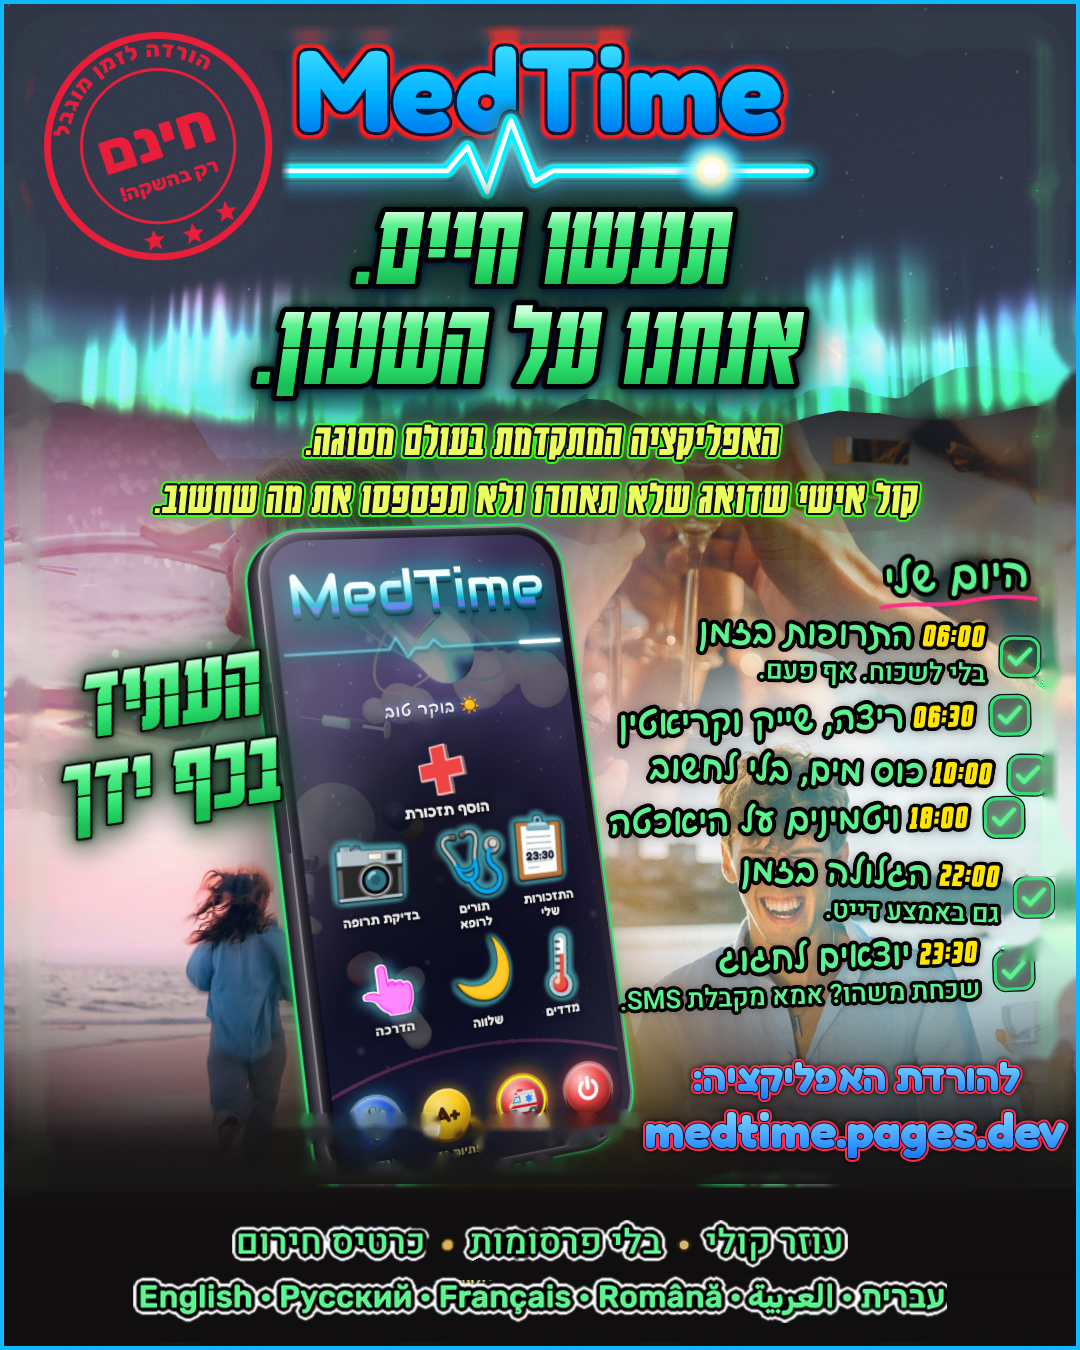
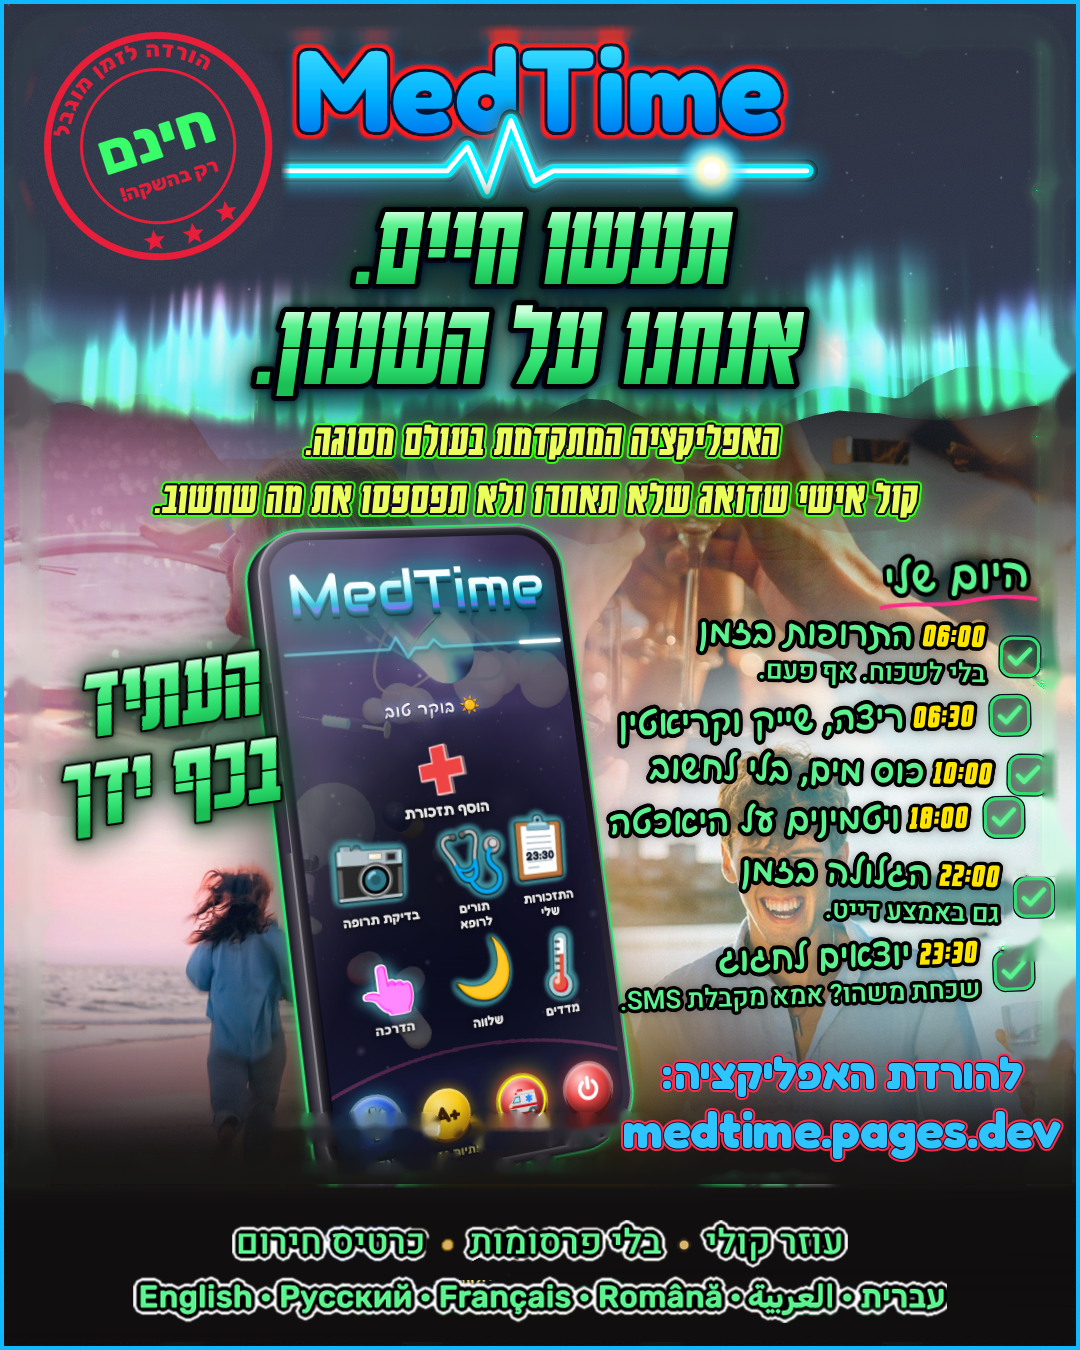
Ad round 10: green 'חינם', bigger glowing-blue address without halo [skip ci]
Claude-Session: https://claude.ai/code/session_01VsxPbo6X9KYMbXyBhgnXSS

Changed region(s): [[0.5806, 0.7778, 1.0, 0.8711], [0.0917, 0.0622, 0.2139, 0.1244]]

diff --git a/media/ads/src/premium_fix8.py b/media/ads/src/premium_fix8.py
@@ -120,11 +120,11 @@ spec = nd.binary_dilation(spec, disk(2)) & zone & ~((ci2.min(2) > 170))
 img[spec] = fill[np.clip(np.nonzero(spec)[0] - Y0, 0, Y1-Y0-1), np.clip(np.nonzero(spec)[1] - X0, 0, X1-X0-1)]
 
 # ---- download text, bottom right, in the title's look (no QR) ----
-fhe = ImageFont.truetype(fd + '/fredoka-hebrew-700-normal.ttf', 40)
-fla = ImageFont.truetype(fd + '/fredoka-latin-700-normal.ttf', 40)
-flaB = ImageFont.truetype(fd + '/fredoka-latin-700-normal.ttf', 49)   # the address, bigger
+fhe = ImageFont.truetype(fd + '/fredoka-hebrew-700-normal.ttf', 44)   # round 10: bigger
+fla = ImageFont.truetype(fd + '/fredoka-latin-700-normal.ttf', 44)
+flaB = ImageFont.truetype(fd + '/fredoka-latin-700-normal.ttf', 51)   # the address, bigger
 tl1, tl2 = 'להורדת האפליקציה', 'medtime.pages.dev'   # the ':' comes from the Latin font (not in the Hebrew one)
-cxT, yT1, yT2 = 856, 1052, 1100
+cxT, yT1, yT2 = 842, 1046, 1098
 def tmask(t, f, y, sw, rtl):
     L = Image.new('L', (W, H), 0); dd_ = ImageDraw.Draw(L)
     w_ = dd_.textlength(t, font=f, direction='rtl') if rtl else dd_.textlength(t, font=f)
@@ -141,15 +141,9 @@ lines_ = [(tl1, fhe, yT1, True), (tl2, flaB, yT2, False)]
 red_o = np.maximum.reduce([tmask(*l_[:3], 3, l_[3]) for l_ in lines_])
 dark_o = np.maximum.reduce([tmask(*l_[:3], 1, l_[3]) for l_ in lines_])
 body = np.maximum.reduce([tmask(*l_[:3], 0, l_[3]) for l_ in lines_])
-img = img*(1 - 0.45*np.clip(cv2.GaussianBlur(red_o, (0, 0), 3)*2, 0, 1))[..., None]   # small soft shadow
 img = over(img, (255, 42, 74), red_o)
 img = over(img, (10, 22, 52), dark_o)
-grad = np.zeros((H, W, 3), np.float32)
-for y_ in range(H):
-    for (yy_, h_) in ((yT1, 48), (yT2, 58)):
-        if yy_ <= y_ < yy_ + h_:
-            t_ = (y_ - yy_) / h_
-            grad[y_] = np.array([150, 236, 255])*(1-t_) + np.array([20, 120, 255])*t_ if t_ < 1 else 0
+grad = np.ones((H, W, 3), np.float32)*np.array([45, 196, 255], np.float32)   # round 10: one glowing blue inside, no halo
 img = img*(1 - body[..., None]) + grad*body[..., None]
 
 # ---- round stamp: erase the old one, draw a new one in the same layout, flat ink colour, sharp ----
@@ -189,19 +183,23 @@ for ad in (52, 76, 100):
 cen = Image.new('L', (SZ, SZ), 0); dc = ImageDraw.Draw(cen)
 fB = ImageFont.truetype(fd + '/rubik-hebrew-800-normal.ttf', 58*K); fC = ImageFont.truetype(fd + '/rubik-hebrew-800-normal.ttf', 20*K)
 fL = ImageFont.truetype(fd + '/rubik-latin-800-normal.ttf', 20*K)
+cenG = Image.new('L', (SZ, SZ), 0); dg = ImageDraw.Draw(cenG)   # round 10: "חינם" in fluorescent green
 for t_, f_, y_ in (('חינם', fB, -42), ('רק בהשקה', fC, 24)):
     w_ = dc.textlength(t_, font=f_, direction='rtl')
     extra = dc.textlength('!', font=fL) if f_ is fC else 0
     x_ = c0 - (w_ + extra)/2 + extra
-    dc.text((x_, c0 + y_*K), t_, font=f_, fill=255, direction='rtl')
+    (dg if t_ == 'חינם' else dc).text((x_, c0 + y_*K), t_, font=f_, fill=255, direction='rtl')
     if extra: dc.text((x_ - extra, c0 + y_*K), '!', font=fL, fill=255)
 cen = cen.rotate(10, resample=Image.BICUBIC, center=(c0, c0))
+cenG = cenG.rotate(10, resample=Image.BICUBIC, center=(c0, c0)).rotate(8, resample=Image.BICUBIC, center=(c0, c0)).resize((2*R0, 2*R0), Image.LANCZOS)
 st = Image.fromarray(np.maximum(np.array(st), np.array(cen)))
 st = st.rotate(8, resample=Image.BICUBIC, center=(c0, c0))   # the whole stamp a little tilted
 st = st.resize((2*R0, 2*R0), Image.LANCZOS)
 sa = np.zeros((H, W), np.float32); sa[SY-R0:SY+R0, SC-R0:SC+R0] = np.array(st).astype(np.float32)/255
 INK = (232, 30, 58)
 img = over(img, INK, sa)
+ga = np.zeros((H, W), np.float32); ga[SY-R0:SY+R0, SC-R0:SC+R0] = np.array(cenG).astype(np.float32)/255
+img = over(img, (57, 255, 106), ga)
 im_ = Image.fromarray(np.clip(img, 0, 255).astype(np.uint8))
 ImageDraw.Draw(im_).rectangle((0, 0, W-1, H-1), outline=(15, 184, 255), width=4)   # blue edge frame
 im_.save(out)

diff --git a/handoff/SYNC-LOG.md b/handoff/SYNC-LOG.md
@@ -7,6 +7,9 @@
 - מה: M-320..M-324 (פירוט ב-CHANGES.md): ברכה וצלב למעלה; פריסה שווה (3 בשורה, שורה קצרה ממורכזת); תור רופא: תווית קצרה על הסמל; חיסכון בסוללה (saver.js + WebView onPause/onResume + isPowerSave/batteryLevel/isCharging ב-NativeBridge); טיפ הגדרות בסוף ההגדרה הראשונית.
 - קומיטים: cc5f4ca (דף, עדכון מהיר), 36dcecb (Java, בנייה 223). להחזרה: git revert 36dcecb cc5f4ca.
 
+## 2026-10-23 ~15:00 · חשבון ראשי · אותה שיחה
+- מה: מודעה סבב 10: "חינם" בירוק זרחני #39ff6a; שורות ההורדה גדולות יותר (44/51px), מילוי כחול זוהר אחיד #2dc4ff בלי הילה/צל, קו אדום דק נשאר. קובץ: premium_fix8.py, התמונה. להחזרה: התמונה מ-ba79630.
+
 ## 2026-10-23 ~14:55 · חשבון ראשי · אותה שיחה
 - מה: תיקון טעות: במרכז החותמת "חינם" (לא "חיים"; במקור הפונט השבלוני נקרא בטעות). קובץ: premium_fix8.py, התמונה.
 
